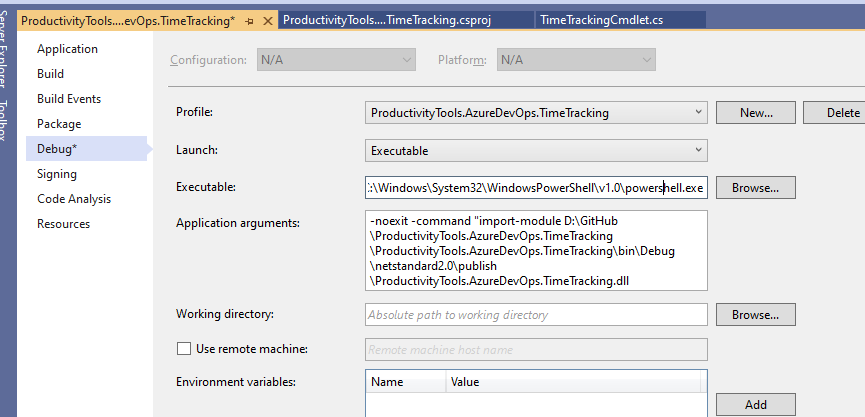
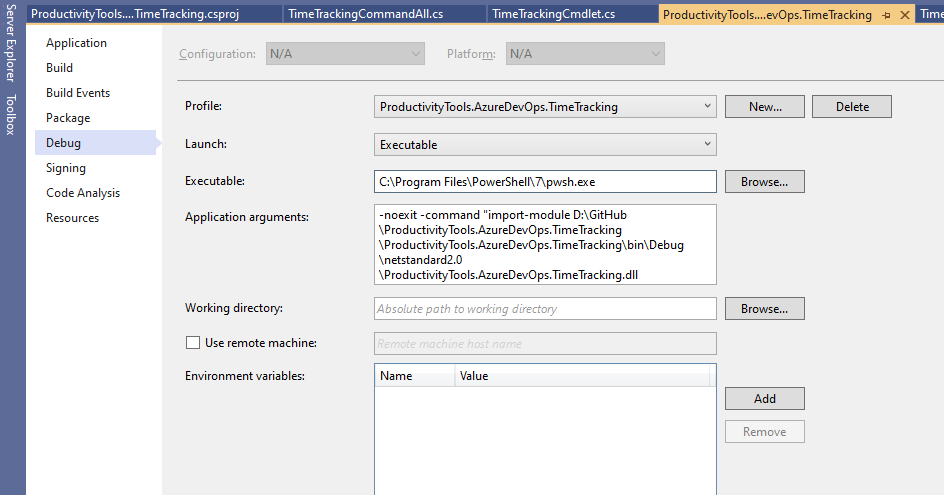
readme

diff --git a/README.md b/README.md
@@ -182,20 +182,34 @@ Invoke module with **Help** switch
 
 ## Debugging
 
-To be able to debug application first we need to publish our project. This is because by default VS doesn't copy all references to bin directory.
-
-Invoke in the Package Manager ``dotnet publish``
-
-In the project properties in the Start external program put:
+VS by default doesn't copy the referenced packages to bin directory, but we need them to be able to debug application. To make it possible add ``CopyLocalLockFileAssemblies`` node to the project csproj file.
 
 ```
-C:\Windows\System32\WindowsPowerShell\v1.0\powershell.exe
+<Project Sdk="Microsoft.NET.Sdk">
+
+  <PropertyGroup>
+    <TargetFramework>netstandard2.0</TargetFramework>
+    <UserSecretsId>4dbd570d-5934-4d10-8bee-114f59f3a0a9</UserSecretsId>
+    <CopyLocalLockFileAssemblies>true</CopyLocalLockFileAssemblies>
+  </PropertyGroup>
+
+  <ItemGroup>
+    <PackageReference Include="ProductivityTools.PSCmdlet" Version="1.0.1" />
+  </ItemGroup>
+</Project>
+
 ```
+Next in the debug window add PowerShell path to be run when debbuging.
+
+```
+C:\Program Files\PowerShell\7\pwsh.exe
+```
+Or if you using .NETFramework ``C:\Windows\System32\WindowsPowerShell\v1.0\powershell.exe``
 
 And for the command line parameters something similar to:
 
 ```
--noexit -command "-noexit -command "import-module D:\GitHub\ProductivityTools.AzureDevOps.TimeTracking\ProductivityTools.AzureDevOps.TimeTracking\bin\Debug\netstandard2.0\publish\ProductivityTools.AzureDevOps.TimeTracking.dll"
+-noexit -command "-noexit -command "import-module D:\GitHub\ProductivityTools.AzureDevOps.TimeTracking\ProductivityTools.AzureDevOps.TimeTracking\bin\Debug\netstandard2.0\ProductivityTools.AzureDevOps.TimeTracking.dll"
 ```
 
 ![Debug properties](Images/DebugProperties.png)
